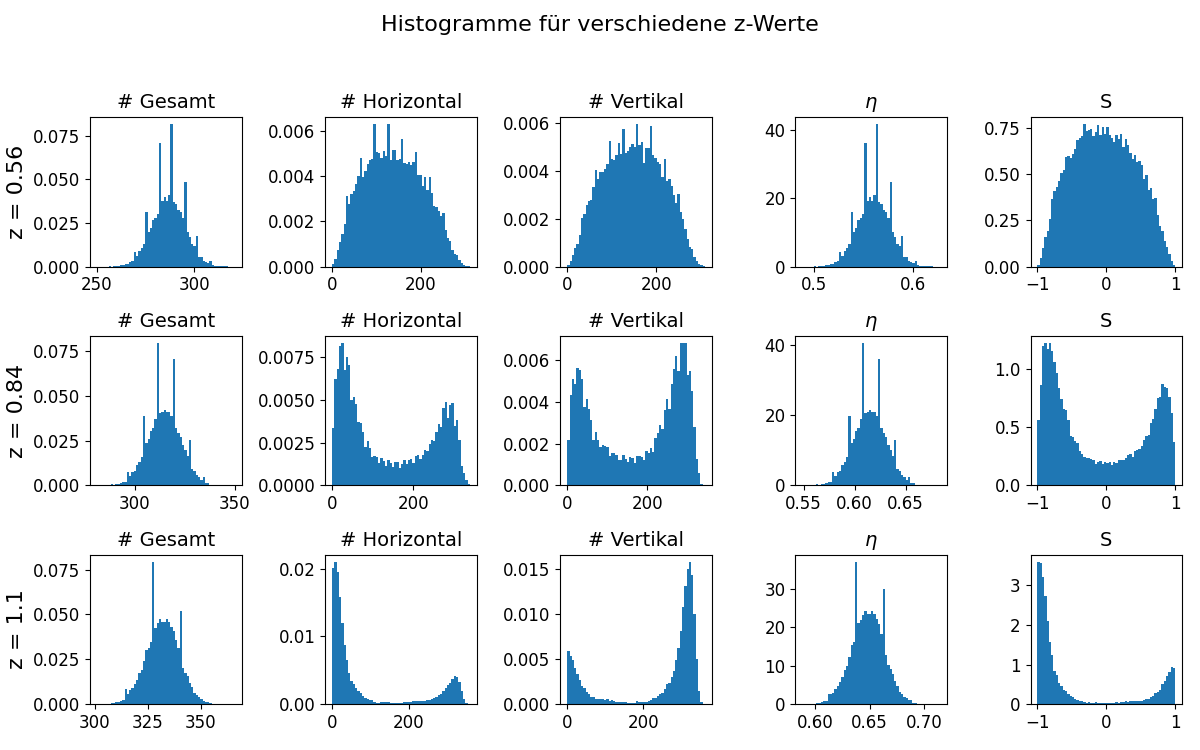
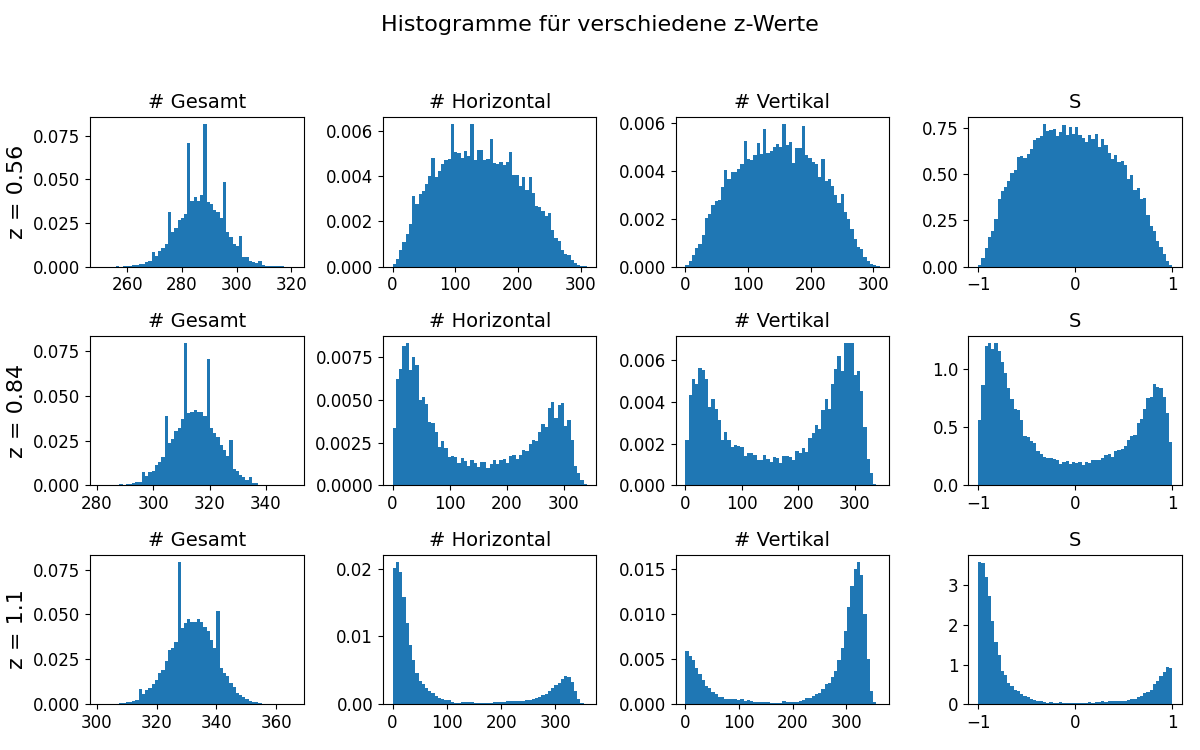
histograms last change

diff --git a/06_GK_Monte_Carlo/output/plot_histograms.py b/06_GK_Monte_Carlo/output/plot_histograms.py
@@ -14,14 +14,14 @@ rename_dict = {
     'total_rods': '# Gesamt',
     'horizontal_rods': '# Horizontal',
     'vertical_rods': '# Vertikal',
-    'eta': '$\eta$',
+    #'eta': '$\eta$'
     'S': 'S'
 }
-fig, axes = plt.subplots(len(files_and_titles), 5, figsize=(12, 2.5 * len(files_and_titles)))
+fig, axes = plt.subplots(len(files_and_titles), 4, figsize=(12, 2.5 * len(files_and_titles)))
 
 for row, (file, title) in enumerate(files_and_titles):
     df = pd.read_csv(file, comment='#')
-    columns = [col for col in df.columns if col != 'step']
+    columns = [col for col in df.columns if col in rename_dict]
 
     for ax, column in zip(axes[row], columns):
         ax.hist(df[column], bins=60, density=True)
